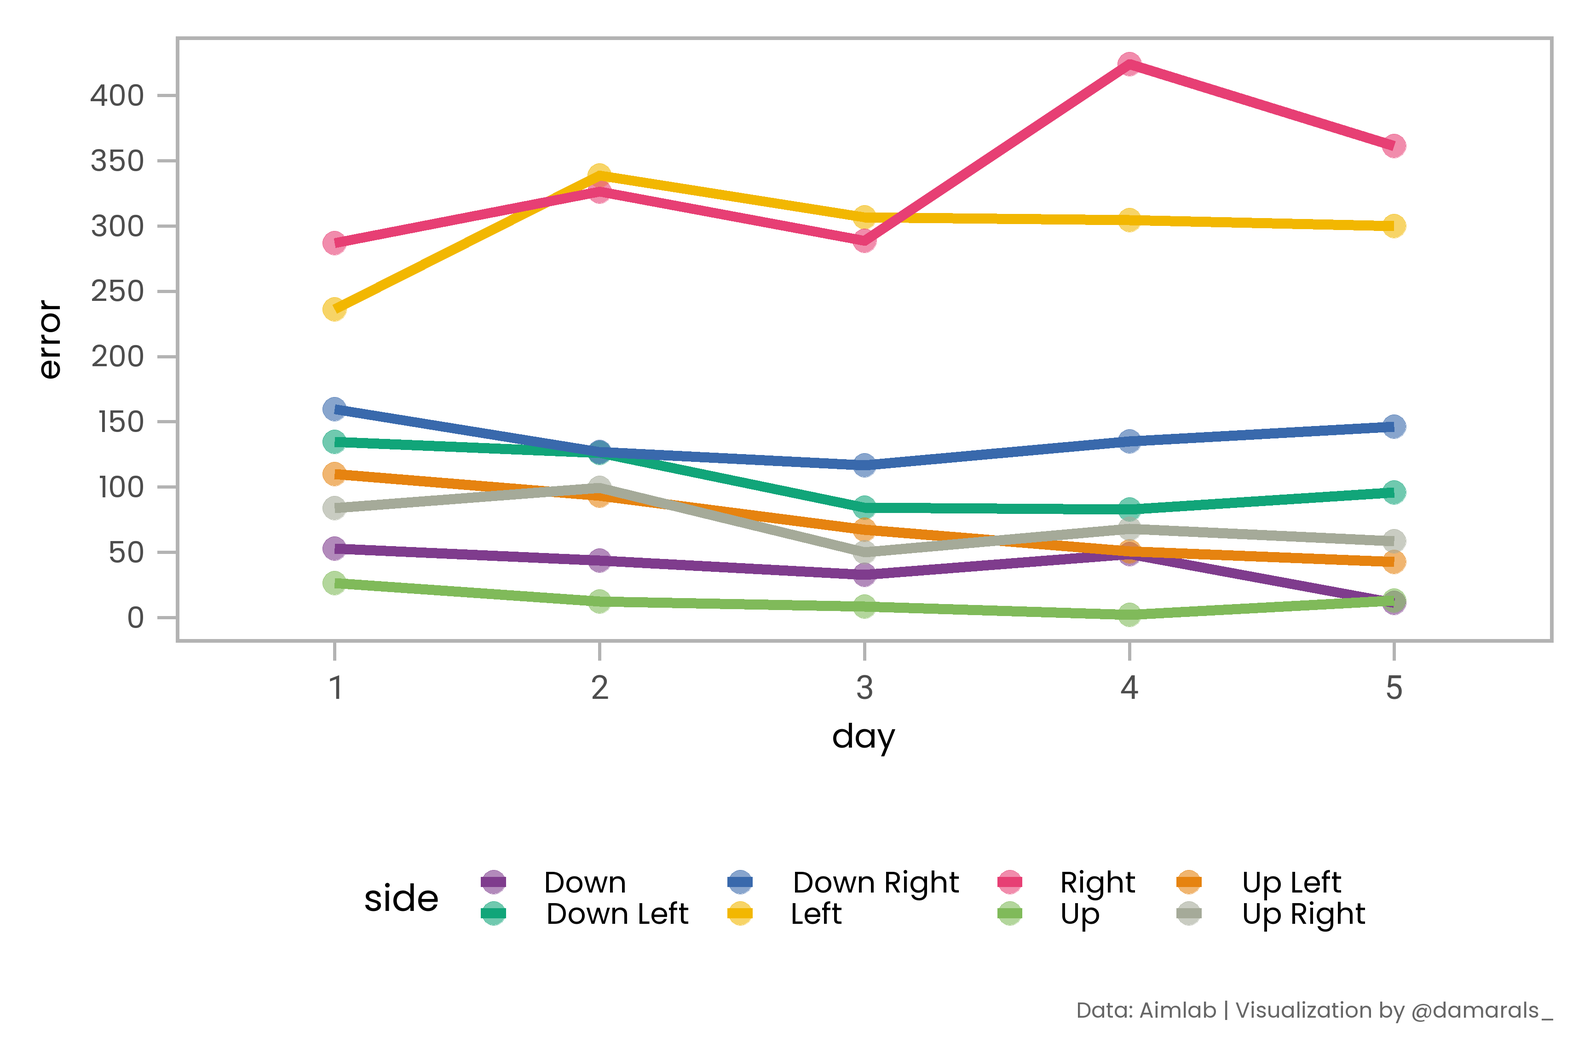
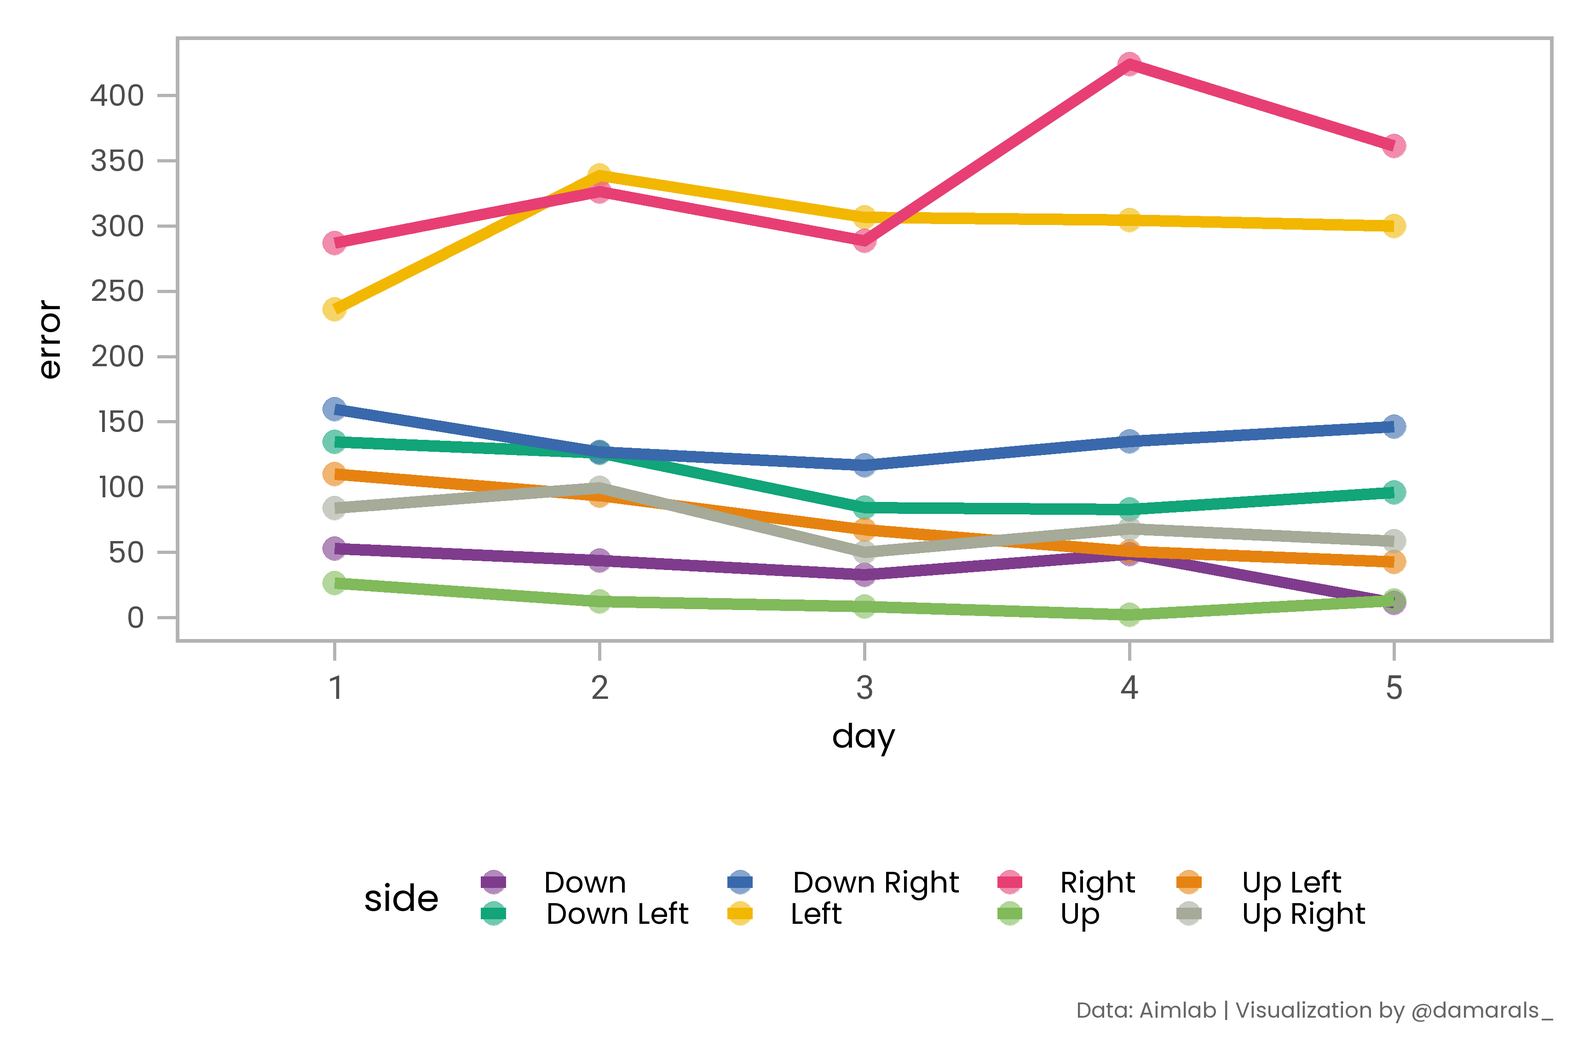
:rocket: increase line and point size

diff --git a/docs/posts/2022-05-13_aimlab-is-worth/index.html b/docs/posts/2022-05-13_aimlab-is-worth/index.html
@@ -317,7 +317,7 @@ code span.wa { color: #60a0b0; font-weight: bold; font-style: italic; } /* Warni
 <span id="cb3-8"><a href="#cb3-8" aria-hidden="true" tabindex="-1"></a>  ggplot2<span class="sc">::</span><span class="fu">ggplot</span>() <span class="sc">+</span></span>
 <span id="cb3-9"><a href="#cb3-9" aria-hidden="true" tabindex="-1"></a>  ggplot2<span class="sc">::</span><span class="fu">aes</span>(<span class="at">x =</span> day, <span class="at">y =</span> avg_time, <span class="at">color =</span> aim, <span class="at">group =</span> aim) <span class="sc">+</span></span>
 <span id="cb3-10"><a href="#cb3-10" aria-hidden="true" tabindex="-1"></a>  ggplot2<span class="sc">::</span><span class="fu">stat_summary</span>(<span class="at">fun =</span> mean, <span class="at">geom =</span> <span class="st">"point"</span>, <span class="at">size =</span> <span class="dv">10</span>, <span class="at">alpha =</span> <span class="fl">0.6</span>) <span class="sc">+</span></span>
-<span id="cb3-11"><a href="#cb3-11" aria-hidden="true" tabindex="-1"></a>  ggplot2<span class="sc">::</span><span class="fu">stat_summary</span>(<span class="at">fun =</span> mean, <span class="at">geom =</span> <span class="st">"line"</span>, <span class="at">size =</span> <span class="dv">4</span>) <span class="sc">+</span></span>
+<span id="cb3-11"><a href="#cb3-11" aria-hidden="true" tabindex="-1"></a>  ggplot2<span class="sc">::</span><span class="fu">stat_summary</span>(<span class="at">fun =</span> mean, <span class="at">geom =</span> <span class="st">"line"</span>, <span class="at">size =</span> <span class="dv">5</span>) <span class="sc">+</span></span>
 <span id="cb3-12"><a href="#cb3-12" aria-hidden="true" tabindex="-1"></a>  ggplot2<span class="sc">::</span><span class="fu">scale_y_continuous</span>(<span class="at">breaks =</span> scales<span class="sc">::</span><span class="fu">pretty_breaks</span>(<span class="dv">8</span>)) <span class="sc">+</span></span>
 <span id="cb3-13"><a href="#cb3-13" aria-hidden="true" tabindex="-1"></a>  ggplot2<span class="sc">::</span><span class="fu">scale_color_discrete</span>(<span class="st">"aim on ball"</span>) <span class="sc">+</span></span>
 <span id="cb3-14"><a href="#cb3-14" aria-hidden="true" tabindex="-1"></a>  ggplot2<span class="sc">::</span><span class="fu">scale_color_manual</span>(<span class="at">values =</span> <span class="fu">c</span>(<span class="st">"#FF8C00"</span>, <span class="st">"#A034F0"</span>)) <span class="sc">+</span></span>
@@ -357,7 +357,7 @@ code span.wa { color: #60a0b0; font-weight: bold; font-style: italic; } /* Warni
 <span id="cb4-9"><a href="#cb4-9" aria-hidden="true" tabindex="-1"></a>  ggplot2<span class="sc">::</span><span class="fu">ggplot</span>() <span class="sc">+</span></span>
 <span id="cb4-10"><a href="#cb4-10" aria-hidden="true" tabindex="-1"></a>  ggplot2<span class="sc">::</span><span class="fu">aes</span>(<span class="at">x =</span> day, <span class="at">y =</span> error, <span class="at">color =</span> side, <span class="at">group =</span> side) <span class="sc">+</span></span>
 <span id="cb4-11"><a href="#cb4-11" aria-hidden="true" tabindex="-1"></a>  ggplot2<span class="sc">::</span><span class="fu">stat_summary</span>(<span class="at">fun =</span> mean, <span class="at">geom =</span> <span class="st">"point"</span>, <span class="at">size =</span> <span class="dv">9</span>, <span class="at">alpha =</span> <span class="fl">0.6</span>) <span class="sc">+</span></span>
-<span id="cb4-12"><a href="#cb4-12" aria-hidden="true" tabindex="-1"></a>  ggplot2<span class="sc">::</span><span class="fu">stat_summary</span>(<span class="at">fun =</span> mean, <span class="at">geom =</span> <span class="st">"line"</span>, <span class="at">size =</span> <span class="dv">4</span>) <span class="sc">+</span></span>
+<span id="cb4-12"><a href="#cb4-12" aria-hidden="true" tabindex="-1"></a>  ggplot2<span class="sc">::</span><span class="fu">stat_summary</span>(<span class="at">fun =</span> mean, <span class="at">geom =</span> <span class="st">"line"</span>, <span class="at">size =</span> <span class="fl">4.5</span>) <span class="sc">+</span></span>
 <span id="cb4-13"><a href="#cb4-13" aria-hidden="true" tabindex="-1"></a>  ggplot2<span class="sc">::</span><span class="fu">scale_color_manual</span>(<span class="at">values =</span> color_pal) <span class="sc">+</span></span>
 <span id="cb4-14"><a href="#cb4-14" aria-hidden="true" tabindex="-1"></a>  ggplot2<span class="sc">::</span><span class="fu">scale_y_continuous</span>(<span class="at">breaks =</span> scales<span class="sc">::</span><span class="fu">pretty_breaks</span>(<span class="dv">8</span>)) <span class="sc">+</span></span>
 <span id="cb4-15"><a href="#cb4-15" aria-hidden="true" tabindex="-1"></a>  ggplot2<span class="sc">::</span><span class="fu">labs</span>(<span class="at">caption =</span> <span class="st">"Data: Aimlab | Visualization by @damarals_"</span>) <span class="sc">+</span></span>
@@ -392,7 +392,7 @@ code span.wa { color: #60a0b0; font-weight: bold; font-style: italic; } /* Warni
 <span id="cb5-6"><a href="#cb5-6" aria-hidden="true" tabindex="-1"></a>  ggplot2<span class="sc">::</span><span class="fu">stat_summary</span>(<span class="at">fun =</span> mean, <span class="at">geom =</span> <span class="st">"point"</span>, </span>
 <span id="cb5-7"><a href="#cb5-7" aria-hidden="true" tabindex="-1"></a>                        <span class="at">color =</span> <span class="st">"#A034F0"</span>, <span class="at">size =</span> <span class="dv">10</span>, <span class="at">alpha =</span> <span class="fl">0.6</span>) <span class="sc">+</span></span>
 <span id="cb5-8"><a href="#cb5-8" aria-hidden="true" tabindex="-1"></a>  ggplot2<span class="sc">::</span><span class="fu">stat_summary</span>(<span class="at">fun =</span> mean, <span class="at">geom =</span> <span class="st">"line"</span>, </span>
-<span id="cb5-9"><a href="#cb5-9" aria-hidden="true" tabindex="-1"></a>                        <span class="at">color =</span> <span class="st">"#A034F0"</span>, <span class="at">size =</span> <span class="dv">4</span>) <span class="sc">+</span></span>
+<span id="cb5-9"><a href="#cb5-9" aria-hidden="true" tabindex="-1"></a>                        <span class="at">color =</span> <span class="st">"#A034F0"</span>, <span class="at">size =</span> <span class="dv">5</span>) <span class="sc">+</span></span>
 <span id="cb5-10"><a href="#cb5-10" aria-hidden="true" tabindex="-1"></a>  ggplot2<span class="sc">::</span><span class="fu">scale_y_continuous</span>(<span class="at">labels =</span> scales<span class="sc">::</span><span class="fu">percent_format</span>(<span class="at">accuracy =</span> <span class="dv">1</span>),</span>
 <span id="cb5-11"><a href="#cb5-11" aria-hidden="true" tabindex="-1"></a>                              <span class="at">breaks =</span> scales<span class="sc">::</span><span class="fu">pretty_breaks</span>(<span class="dv">8</span>)) <span class="sc">+</span></span>
 <span id="cb5-12"><a href="#cb5-12" aria-hidden="true" tabindex="-1"></a>  ggplot2<span class="sc">::</span><span class="fu">labs</span>(<span class="at">caption =</span> <span class="st">"Data: Aimlab | Visualization by @damarals_"</span>) <span class="sc">+</span></span>
@@ -417,7 +417,7 @@ code span.wa { color: #60a0b0; font-weight: bold; font-style: italic; } /* Warni
 <span id="cb6-5"><a href="#cb6-5" aria-hidden="true" tabindex="-1"></a>  ggplot2<span class="sc">::</span><span class="fu">stat_summary</span>(<span class="at">fun =</span> mean, <span class="at">geom =</span> <span class="st">"point"</span>, </span>
 <span id="cb6-6"><a href="#cb6-6" aria-hidden="true" tabindex="-1"></a>                        <span class="at">color =</span> <span class="st">"#A034F0"</span>, <span class="at">size =</span> <span class="dv">10</span>, <span class="at">alpha =</span> <span class="fl">0.6</span>) <span class="sc">+</span></span>
 <span id="cb6-7"><a href="#cb6-7" aria-hidden="true" tabindex="-1"></a>  ggplot2<span class="sc">::</span><span class="fu">stat_summary</span>(<span class="at">fun =</span> mean, <span class="at">geom =</span> <span class="st">"line"</span>, </span>
-<span id="cb6-8"><a href="#cb6-8" aria-hidden="true" tabindex="-1"></a>                        <span class="at">color =</span> <span class="st">"#A034F0"</span>, <span class="at">size =</span> <span class="dv">4</span>) <span class="sc">+</span></span>
+<span id="cb6-8"><a href="#cb6-8" aria-hidden="true" tabindex="-1"></a>                        <span class="at">color =</span> <span class="st">"#A034F0"</span>, <span class="at">size =</span> <span class="dv">5</span>) <span class="sc">+</span></span>
 <span id="cb6-9"><a href="#cb6-9" aria-hidden="true" tabindex="-1"></a>  ggplot2<span class="sc">::</span><span class="fu">scale_y_continuous</span>(<span class="at">breaks =</span> scales<span class="sc">::</span><span class="fu">pretty_breaks</span>(<span class="dv">8</span>)) <span class="sc">+</span></span>
 <span id="cb6-10"><a href="#cb6-10" aria-hidden="true" tabindex="-1"></a>  ggplot2<span class="sc">::</span><span class="fu">labs</span>(<span class="at">y =</span> <span class="st">"kills per sec"</span>,</span>
 <span id="cb6-11"><a href="#cb6-11" aria-hidden="true" tabindex="-1"></a>                <span class="at">caption =</span> <span class="st">"Data: Aimlab | Visualization by @damarals_"</span>) <span class="sc">+</span></span>
@@ -452,7 +452,7 @@ code span.wa { color: #60a0b0; font-weight: bold; font-style: italic; } /* Warni
 <span id="cb7-6"><a href="#cb7-6" aria-hidden="true" tabindex="-1"></a>  ggplot2<span class="sc">::</span><span class="fu">stat_summary</span>(<span class="at">fun =</span> mean, <span class="at">geom =</span> <span class="st">"point"</span>, </span>
 <span id="cb7-7"><a href="#cb7-7" aria-hidden="true" tabindex="-1"></a>                        <span class="at">color =</span> <span class="st">"#A034F0"</span>, <span class="at">size =</span> <span class="dv">10</span>, <span class="at">alpha =</span> <span class="fl">0.6</span>) <span class="sc">+</span></span>
 <span id="cb7-8"><a href="#cb7-8" aria-hidden="true" tabindex="-1"></a>  ggplot2<span class="sc">::</span><span class="fu">stat_summary</span>(<span class="at">fun =</span> mean, <span class="at">geom =</span> <span class="st">"line"</span>, </span>
-<span id="cb7-9"><a href="#cb7-9" aria-hidden="true" tabindex="-1"></a>                        <span class="at">color =</span> <span class="st">"#A034F0"</span>, <span class="at">size =</span> <span class="dv">4</span>) <span class="sc">+</span></span>
+<span id="cb7-9"><a href="#cb7-9" aria-hidden="true" tabindex="-1"></a>                        <span class="at">color =</span> <span class="st">"#A034F0"</span>, <span class="at">size =</span> <span class="dv">5</span>) <span class="sc">+</span></span>
 <span id="cb7-10"><a href="#cb7-10" aria-hidden="true" tabindex="-1"></a>  ggplot2<span class="sc">::</span><span class="fu">scale_y_continuous</span>(<span class="at">labels =</span> scales<span class="sc">::</span><span class="fu">percent_format</span>(<span class="at">accuracy =</span> <span class="dv">1</span>),</span>
 <span id="cb7-11"><a href="#cb7-11" aria-hidden="true" tabindex="-1"></a>                              <span class="at">breaks =</span> scales<span class="sc">::</span><span class="fu">pretty_breaks</span>(<span class="dv">8</span>)) <span class="sc">+</span></span>
 <span id="cb7-12"><a href="#cb7-12" aria-hidden="true" tabindex="-1"></a>  ggplot2<span class="sc">::</span><span class="fu">labs</span>(<span class="at">caption =</span> <span class="st">"Data: Aimlab | Visualization by @damarals_"</span>) <span class="sc">+</span></span>
@@ -477,7 +477,7 @@ code span.wa { color: #60a0b0; font-weight: bold; font-style: italic; } /* Warni
 <span id="cb8-5"><a href="#cb8-5" aria-hidden="true" tabindex="-1"></a>  ggplot2<span class="sc">::</span><span class="fu">stat_summary</span>(<span class="at">fun =</span> mean, <span class="at">geom =</span> <span class="st">"point"</span>, </span>
 <span id="cb8-6"><a href="#cb8-6" aria-hidden="true" tabindex="-1"></a>                        <span class="at">color =</span> <span class="st">"#A034F0"</span>, <span class="at">size =</span> <span class="dv">10</span>, <span class="at">alpha =</span> <span class="fl">0.6</span>) <span class="sc">+</span></span>
 <span id="cb8-7"><a href="#cb8-7" aria-hidden="true" tabindex="-1"></a>  ggplot2<span class="sc">::</span><span class="fu">stat_summary</span>(<span class="at">fun =</span> mean, <span class="at">geom =</span> <span class="st">"line"</span>, </span>
-<span id="cb8-8"><a href="#cb8-8" aria-hidden="true" tabindex="-1"></a>                        <span class="at">color =</span> <span class="st">"#A034F0"</span>, <span class="at">size =</span> <span class="dv">4</span>) <span class="sc">+</span></span>
+<span id="cb8-8"><a href="#cb8-8" aria-hidden="true" tabindex="-1"></a>                        <span class="at">color =</span> <span class="st">"#A034F0"</span>, <span class="at">size =</span> <span class="dv">5</span>) <span class="sc">+</span></span>
 <span id="cb8-9"><a href="#cb8-9" aria-hidden="true" tabindex="-1"></a>  ggplot2<span class="sc">::</span><span class="fu">scale_y_continuous</span>(<span class="at">breaks =</span> scales<span class="sc">::</span><span class="fu">pretty_breaks</span>(<span class="dv">8</span>)) <span class="sc">+</span></span>
 <span id="cb8-10"><a href="#cb8-10" aria-hidden="true" tabindex="-1"></a>  ggplot2<span class="sc">::</span><span class="fu">labs</span>(<span class="at">y =</span> <span class="st">"kills per sec"</span>,</span>
 <span id="cb8-11"><a href="#cb8-11" aria-hidden="true" tabindex="-1"></a>                <span class="at">caption =</span> <span class="st">"Data: Aimlab | Visualization by @damarals_"</span>) <span class="sc">+</span></span>
@@ -512,7 +512,7 @@ code span.wa { color: #60a0b0; font-weight: bold; font-style: italic; } /* Warni
 <span id="cb9-6"><a href="#cb9-6" aria-hidden="true" tabindex="-1"></a>  ggplot2<span class="sc">::</span><span class="fu">stat_summary</span>(<span class="at">fun =</span> mean, <span class="at">geom =</span> <span class="st">"point"</span>, </span>
 <span id="cb9-7"><a href="#cb9-7" aria-hidden="true" tabindex="-1"></a>                        <span class="at">color =</span> <span class="st">"#A034F0"</span>, <span class="at">size =</span> <span class="dv">10</span>, <span class="at">alpha =</span> <span class="fl">0.6</span>) <span class="sc">+</span></span>
 <span id="cb9-8"><a href="#cb9-8" aria-hidden="true" tabindex="-1"></a>  ggplot2<span class="sc">::</span><span class="fu">stat_summary</span>(<span class="at">fun =</span> mean, <span class="at">geom =</span> <span class="st">"line"</span>, </span>
-<span id="cb9-9"><a href="#cb9-9" aria-hidden="true" tabindex="-1"></a>                        <span class="at">color =</span> <span class="st">"#A034F0"</span>, <span class="at">size =</span> <span class="dv">4</span>) <span class="sc">+</span></span>
+<span id="cb9-9"><a href="#cb9-9" aria-hidden="true" tabindex="-1"></a>                        <span class="at">color =</span> <span class="st">"#A034F0"</span>, <span class="at">size =</span> <span class="dv">5</span>) <span class="sc">+</span></span>
 <span id="cb9-10"><a href="#cb9-10" aria-hidden="true" tabindex="-1"></a>  ggplot2<span class="sc">::</span><span class="fu">scale_y_continuous</span>(<span class="at">labels =</span> scales<span class="sc">::</span><span class="fu">percent_format</span>(<span class="at">accuracy =</span> <span class="dv">1</span>),</span>
 <span id="cb9-11"><a href="#cb9-11" aria-hidden="true" tabindex="-1"></a>                              <span class="at">breaks =</span> scales<span class="sc">::</span><span class="fu">pretty_breaks</span>(<span class="dv">8</span>)) <span class="sc">+</span></span>
 <span id="cb9-12"><a href="#cb9-12" aria-hidden="true" tabindex="-1"></a>  ggplot2<span class="sc">::</span><span class="fu">labs</span>(<span class="at">caption =</span> <span class="st">"Data: Aimlab | Visualization by @damarals_"</span>) <span class="sc">+</span></span>
@@ -537,7 +537,7 @@ code span.wa { color: #60a0b0; font-weight: bold; font-style: italic; } /* Warni
 <span id="cb10-5"><a href="#cb10-5" aria-hidden="true" tabindex="-1"></a>  ggplot2<span class="sc">::</span><span class="fu">stat_summary</span>(<span class="at">fun =</span> mean, <span class="at">geom =</span> <span class="st">"point"</span>, </span>
 <span id="cb10-6"><a href="#cb10-6" aria-hidden="true" tabindex="-1"></a>                        <span class="at">color =</span> <span class="st">"#A034F0"</span>, <span class="at">size =</span> <span class="dv">10</span>, <span class="at">alpha =</span> <span class="fl">0.6</span>) <span class="sc">+</span></span>
 <span id="cb10-7"><a href="#cb10-7" aria-hidden="true" tabindex="-1"></a>  ggplot2<span class="sc">::</span><span class="fu">stat_summary</span>(<span class="at">fun =</span> mean, <span class="at">geom =</span> <span class="st">"line"</span>, </span>
-<span id="cb10-8"><a href="#cb10-8" aria-hidden="true" tabindex="-1"></a>                        <span class="at">color =</span> <span class="st">"#A034F0"</span>, <span class="at">size =</span> <span class="dv">4</span>) <span class="sc">+</span></span>
+<span id="cb10-8"><a href="#cb10-8" aria-hidden="true" tabindex="-1"></a>                        <span class="at">color =</span> <span class="st">"#A034F0"</span>, <span class="at">size =</span> <span class="dv">5</span>) <span class="sc">+</span></span>
 <span id="cb10-9"><a href="#cb10-9" aria-hidden="true" tabindex="-1"></a>  ggplot2<span class="sc">::</span><span class="fu">scale_y_continuous</span>(<span class="at">breaks =</span> scales<span class="sc">::</span><span class="fu">pretty_breaks</span>(<span class="dv">8</span>)) <span class="sc">+</span></span>
 <span id="cb10-10"><a href="#cb10-10" aria-hidden="true" tabindex="-1"></a>  ggplot2<span class="sc">::</span><span class="fu">labs</span>(<span class="at">y =</span> <span class="st">"kills per sec"</span>,</span>
 <span id="cb10-11"><a href="#cb10-11" aria-hidden="true" tabindex="-1"></a>                <span class="at">caption =</span> <span class="st">"Data: Aimlab | Visualization by @damarals_"</span>) <span class="sc">+</span></span>
@@ -572,7 +572,7 @@ code span.wa { color: #60a0b0; font-weight: bold; font-style: italic; } /* Warni
 <span id="cb11-6"><a href="#cb11-6" aria-hidden="true" tabindex="-1"></a>  ggplot2<span class="sc">::</span><span class="fu">stat_summary</span>(<span class="at">fun =</span> mean, <span class="at">geom =</span> <span class="st">"point"</span>, </span>
 <span id="cb11-7"><a href="#cb11-7" aria-hidden="true" tabindex="-1"></a>                        <span class="at">color =</span> <span class="st">"#A034F0"</span>, <span class="at">size =</span> <span class="dv">10</span>, <span class="at">alpha =</span> <span class="fl">0.6</span>) <span class="sc">+</span></span>
 <span id="cb11-8"><a href="#cb11-8" aria-hidden="true" tabindex="-1"></a>  ggplot2<span class="sc">::</span><span class="fu">stat_summary</span>(<span class="at">fun =</span> mean, <span class="at">geom =</span> <span class="st">"line"</span>, </span>
-<span id="cb11-9"><a href="#cb11-9" aria-hidden="true" tabindex="-1"></a>                        <span class="at">color =</span> <span class="st">"#A034F0"</span>, <span class="at">size =</span> <span class="dv">4</span>) <span class="sc">+</span></span>
+<span id="cb11-9"><a href="#cb11-9" aria-hidden="true" tabindex="-1"></a>                        <span class="at">color =</span> <span class="st">"#A034F0"</span>, <span class="at">size =</span> <span class="dv">5</span>) <span class="sc">+</span></span>
 <span id="cb11-10"><a href="#cb11-10" aria-hidden="true" tabindex="-1"></a>  ggplot2<span class="sc">::</span><span class="fu">scale_y_continuous</span>(<span class="at">labels =</span> scales<span class="sc">::</span><span class="fu">percent_format</span>(<span class="at">accuracy =</span> <span class="dv">1</span>),</span>
 <span id="cb11-11"><a href="#cb11-11" aria-hidden="true" tabindex="-1"></a>                              <span class="at">breaks =</span> scales<span class="sc">::</span><span class="fu">pretty_breaks</span>(<span class="dv">8</span>)) <span class="sc">+</span></span>
 <span id="cb11-12"><a href="#cb11-12" aria-hidden="true" tabindex="-1"></a>  ggplot2<span class="sc">::</span><span class="fu">labs</span>(<span class="at">caption =</span> <span class="st">"Data: Aimlab | Visualization by @damarals_"</span>) <span class="sc">+</span></span>
@@ -597,7 +597,7 @@ code span.wa { color: #60a0b0; font-weight: bold; font-style: italic; } /* Warni
 <span id="cb12-5"><a href="#cb12-5" aria-hidden="true" tabindex="-1"></a>  ggplot2<span class="sc">::</span><span class="fu">stat_summary</span>(<span class="at">fun =</span> mean, <span class="at">geom =</span> <span class="st">"point"</span>, </span>
 <span id="cb12-6"><a href="#cb12-6" aria-hidden="true" tabindex="-1"></a>                        <span class="at">color =</span> <span class="st">"#A034F0"</span>, <span class="at">size =</span> <span class="dv">10</span>, <span class="at">alpha =</span> <span class="fl">0.6</span>) <span class="sc">+</span></span>
 <span id="cb12-7"><a href="#cb12-7" aria-hidden="true" tabindex="-1"></a>  ggplot2<span class="sc">::</span><span class="fu">stat_summary</span>(<span class="at">fun =</span> mean, <span class="at">geom =</span> <span class="st">"line"</span>, </span>
-<span id="cb12-8"><a href="#cb12-8" aria-hidden="true" tabindex="-1"></a>                        <span class="at">color =</span> <span class="st">"#A034F0"</span>, <span class="at">size =</span> <span class="dv">4</span>) <span class="sc">+</span></span>
+<span id="cb12-8"><a href="#cb12-8" aria-hidden="true" tabindex="-1"></a>                        <span class="at">color =</span> <span class="st">"#A034F0"</span>, <span class="at">size =</span> <span class="dv">5</span>) <span class="sc">+</span></span>
 <span id="cb12-9"><a href="#cb12-9" aria-hidden="true" tabindex="-1"></a>  ggplot2<span class="sc">::</span><span class="fu">scale_y_continuous</span>(<span class="at">breaks =</span> scales<span class="sc">::</span><span class="fu">pretty_breaks</span>(<span class="dv">8</span>)) <span class="sc">+</span></span>
 <span id="cb12-10"><a href="#cb12-10" aria-hidden="true" tabindex="-1"></a>  ggplot2<span class="sc">::</span><span class="fu">labs</span>(<span class="at">y =</span> <span class="st">"kills per second"</span>,</span>
 <span id="cb12-11"><a href="#cb12-11" aria-hidden="true" tabindex="-1"></a>                <span class="at">caption =</span> <span class="st">"Data: Aimlab | Visualization by @damarals_"</span>) <span class="sc">+</span></span>

diff --git a/docs/index.html b/docs/index.html
@@ -156,7 +156,7 @@ ul.task-list{list-style: none;}
 
 <div class="quarto-listing quarto-listing-container-default" id="listing-listing">
 <div class="list quarto-listing-default">
-<div class="quarto-post image-right" data-index="0" data-categories="Games,DataViz" data-listing-date-sort="1652324400000" data-listing-file-modified-sort="1652586353846" data-listing-reading-time-sort="13.995">
+<div class="quarto-post image-right" data-index="0" data-categories="Games,DataViz" data-listing-date-sort="1652324400000" data-listing-file-modified-sort="1652586784550" data-listing-reading-time-sort="13.995">
 <div class="thumbnail">
 <p><a href="./posts/2022-05-13_aimlab-is-worth/index.html"> <img src="./posts/2022-05-13_aimlab-is-worth/img/aimlab.jpg" class="thumnail-image"> </a></p>
 </div>
